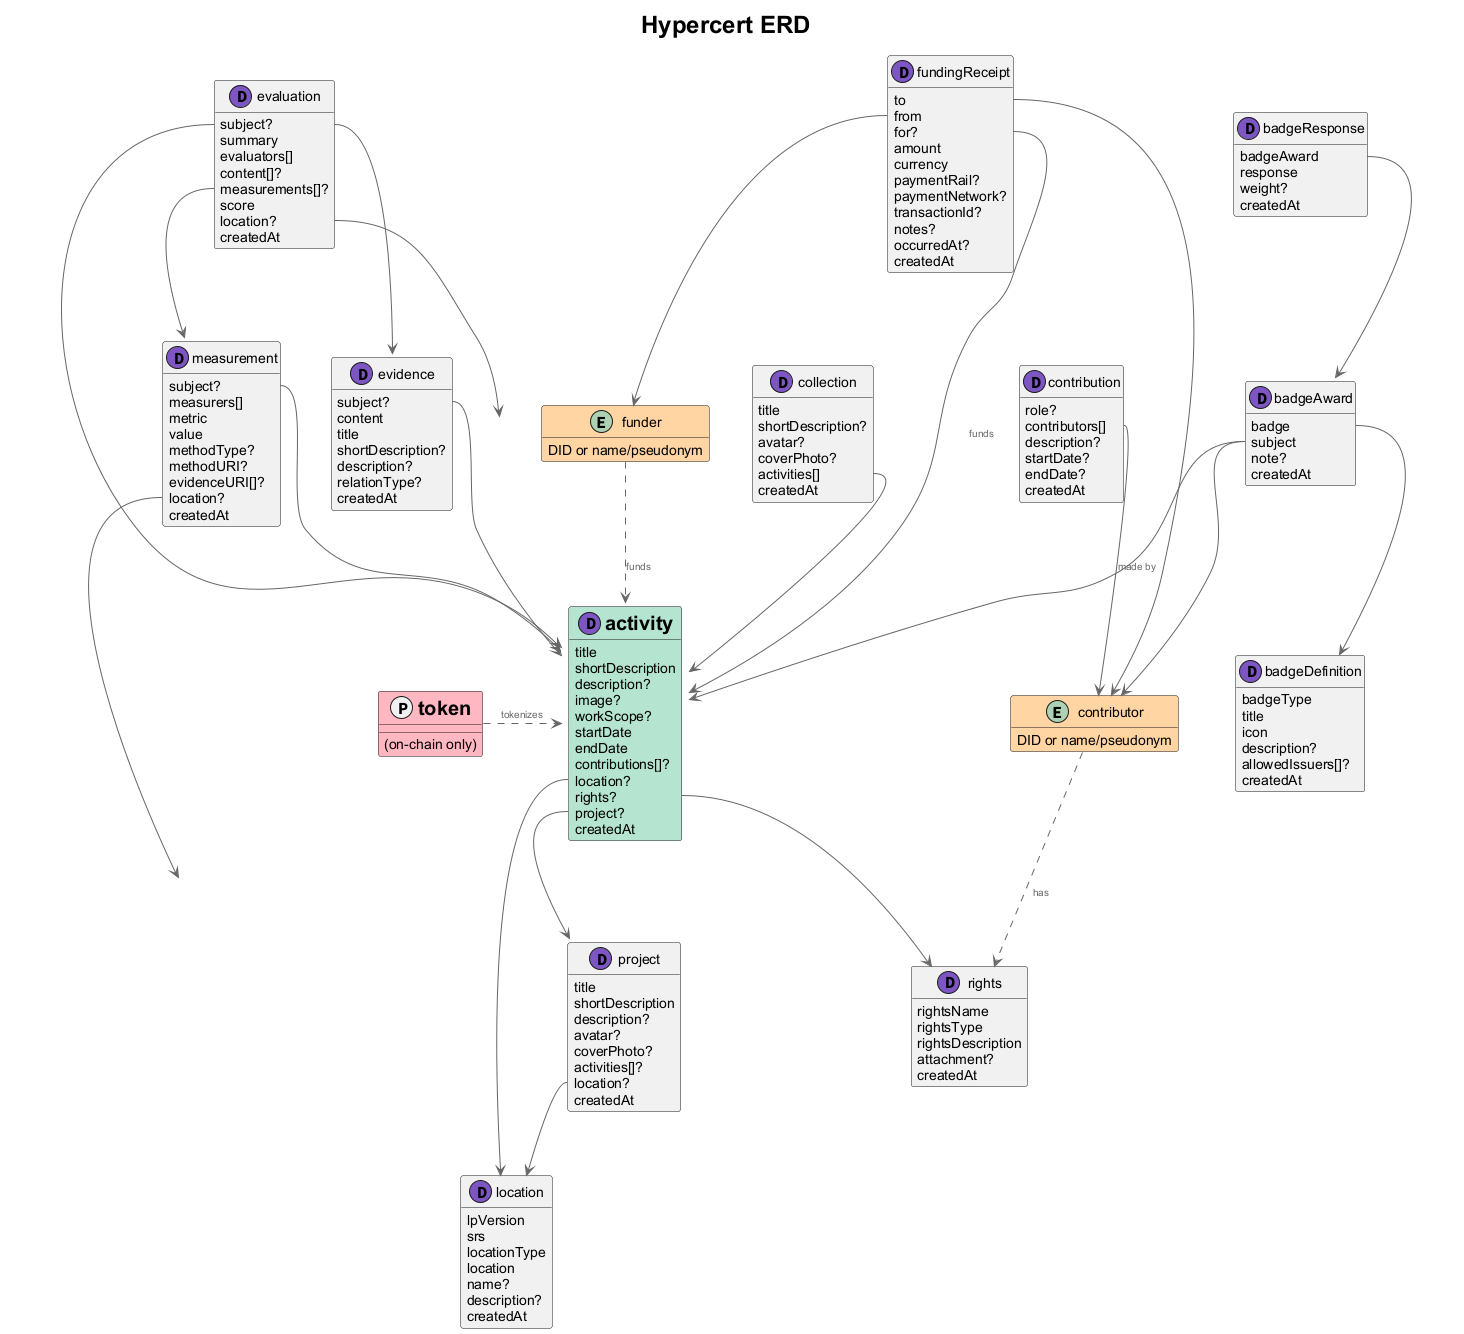
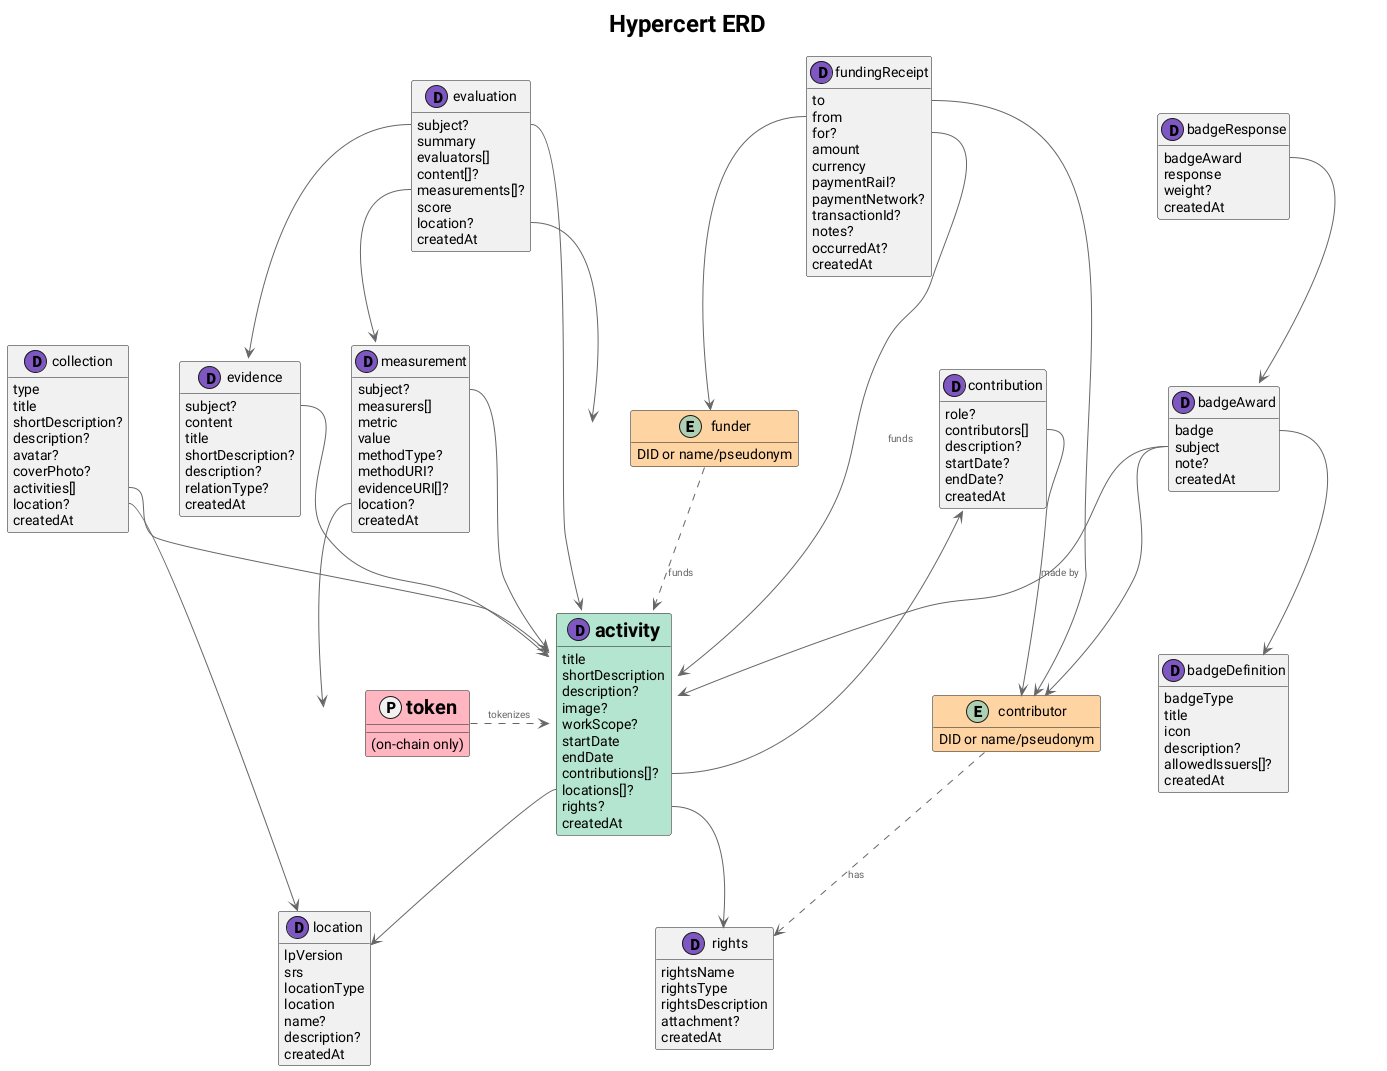
chore: unify project and collection schemas
- Add a `type` field to `org.hypercerts.claim.collection`
  to allow collections to be designated as projects.
  Custom strings are also allowed in `type`.

- Make `shortDescription` field optional in
  `org.hypercerts.claim.collection` to match
  `org.hypercerts.claim.project`.

- Remove `org.hypercerts.claim.project`.

diff --git a/README.md b/README.md
@@ -405,43 +405,23 @@ Hypercerts-specific lexicons for tracking impact work and claims.
 
 **Lexicon ID:** `org.hypercerts.claim.collection`
 
-**Description:** A collection/group of hypercerts that have a specific property.
+**Description:** A group of hypercerts that have a specific property. Can be a project or a collection.
 
 **Key:** `tid`
 
 #### Properties
 
-| Property           | Type     | Required | Description                                                             | Comments                                                            |
-| ------------------ | -------- | -------- | ----------------------------------------------------------------------- | ------------------------------------------------------------------- |
-| `title`            | `string` | ✅       | The title of this collection                                            |                                                                     |
-| `shortDescription` | `string` | ❌       | A short description of this collection                                  |                                                                     |
-| `avatar`           | `blob`   | ❌       | Primary avatar image representing this collection across apps and views | Typically a square image                                            |
-| `coverPhoto`       | `blob`   | ❌       | The cover photo of this collection                                      |                                                                     |
-| `activities`       | `array`  | ✅       | Array of activities with their associated weights in this collection    | Each item references `org.hypercerts.claim.activity#activityWeight` |
-| `createdAt`        | `string` | ✅       | Client-declared timestamp when this record was originally created       |                                                                     |
-
----
-
-### org.hypercerts.claim.project
-
-**Lexicon ID:** `org.hypercerts.claim.project`
-
-**Description:** A project that can include multiple activities
-
-**Key:** `tid`
-
-#### Properties
-
-| Property           | Type     | Required | Description                                                                     | Comments                                                            |
-| ------------------ | -------- | -------- | ------------------------------------------------------------------------------- | ------------------------------------------------------------------- |
-| `title`            | `string` | ✅       | Title of this project                                                           |                                                                     |
-| `shortDescription` | `string` | ✅       | Short summary of this project, suitable for previews and list views             |                                                                     |
-| `description`      | `ref`    | ❌       | Rich-text description of this project, represented as a Leaflet linear document | References must conform to `pub.leaflet.pages.linearDocument#main`  |
-| `avatar`           | `blob`   | ❌       | Primary avatar image representing this project across apps and views            | Typically a square logo or project identity image                   |
-| `coverPhoto`       | `blob`   | ❌       | The cover photo of this project                                                 |                                                                     |
-| `activities`       | `array`  | ❌       | Array of activities with their associated weights in this project               | Each item references `org.hypercerts.claim.activity#activityWeight` |
-| `location`         | `ref`    | ❌       | A strong reference to a location record describing where the work took place    | References must conform to `app.certified.location`                 |
-| `createdAt`        | `string` | ✅       | Client-declared timestamp when this record was originally created               |                                                                     |
+| Property           | Type     | Required | Description                                                                  | Comments                                                            |
+| ------------------ | -------- | -------- | ---------------------------------------------------------------------------- | ------------------------------------------------------------------- |
+| `type`             | `string` | ✅       | The type of this group. Can be 'project', 'collection', or custom string     | Known values: `project`, `collection`                               |
+| `title`            | `string` | ✅       | The title of this collection                                                 |                                                                     |
+| `shortDescription` | `string` | ❌       | A short description of this collection                                       |                                                                     |
+| `description`      | `ref`    | ❌       | Rich-text description, represented as a Leaflet linear document              | References must conform to `pub.leaflet.pages.linearDocument#main`  |
+| `avatar`           | `blob`   | ❌       | Primary avatar image representing this collection across apps and views      | Typically a square image                                            |
+| `coverPhoto`       | `blob`   | ❌       | The cover photo of this collection                                           |                                                                     |
+| `activities`       | `array`  | ✅       | Array of activities with their associated weights in this collection         | Each item references `org.hypercerts.claim.activity#activityWeight` |
+| `location`         | `ref`    | ❌       | A strong reference to a location record describing where the work took place | References must conform to `app.certified.location`                 |
+| `createdAt`        | `string` | ✅       | Client-declared timestamp when this record was originally created            |                                                                     |
 
 ---
 

diff --git a/.changeset/unify-projects-collections.md b/.changeset/unify-projects-collections.md
@@ -1,0 +1,16 @@
+---
+"@hypercerts-org/lexicon": minor
+---
+
+Unify project and collection schemas into a single
+`org.hypercerts.claim.collection` lexicon with `type` discriminator
+field to allow collections to be designated as projects. Custom
+strings are also allowed in `type`.
+
+Also make `shortDescription` field optional in
+`org.hypercerts.claim.collection` to match
+`org.hypercerts.claim.project`.
+
+This unification removes `org.hypercerts.claim.project`, so existing
+projects should be migrated to collections with `type` set to
+`project`.
